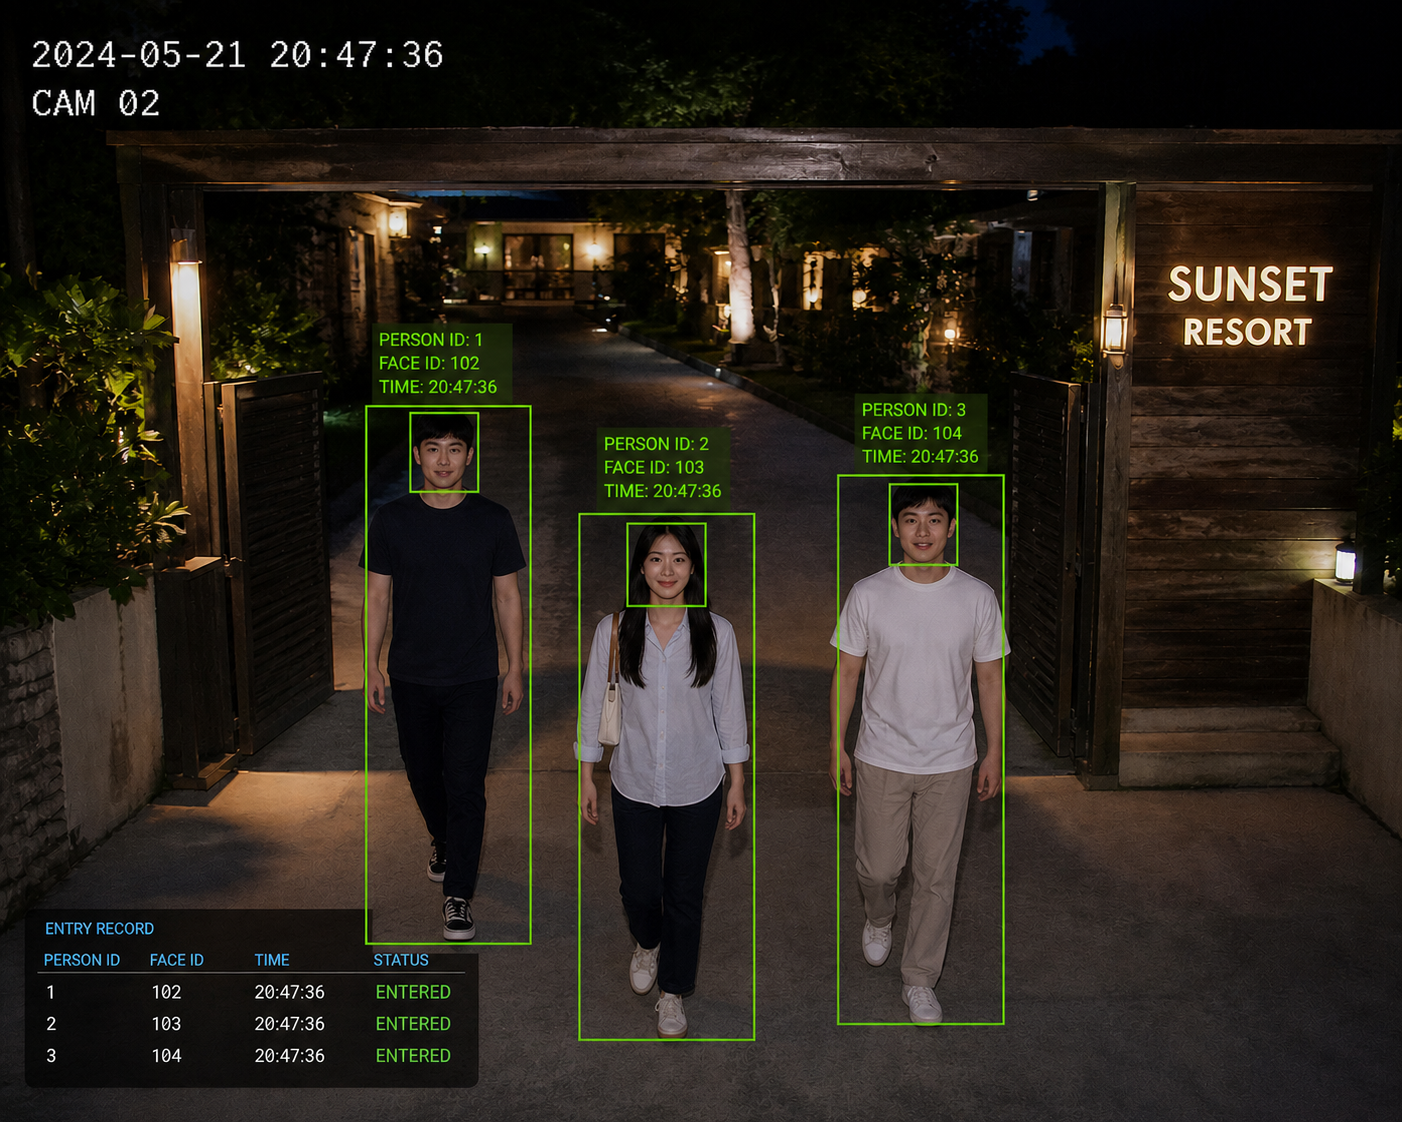
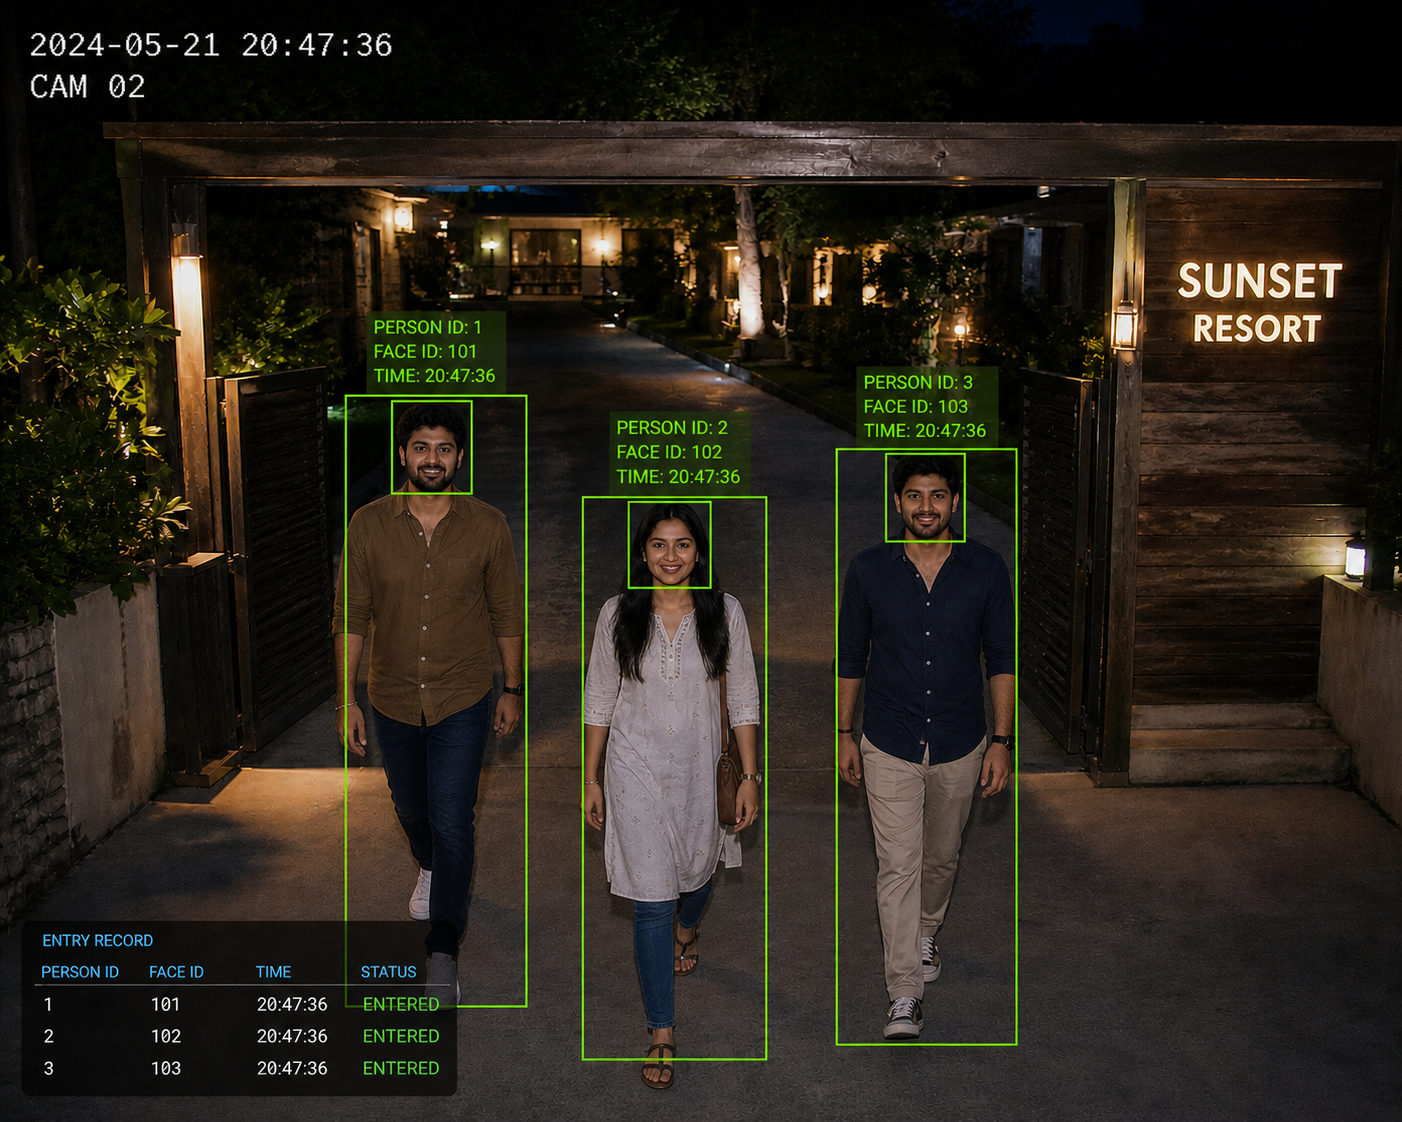
Face_Rec

diff --git a/README.md b/README.md
@@ -4,7 +4,7 @@ A high-performance Python face recognition and detection system built for real-t
 
 ---
 
-## 🚀 Key Features
+## Key Features
 
 - **Real-Time Webcam Recognition**
   - Optimized processing using frame skipping for higher FPS.
@@ -26,7 +26,7 @@ A high-performance Python face recognition and detection system built for real-t
 
 ---
 
-## 📋 Table of Contents
+## Table of Contents
 
 - Installation
 - Quick Start
@@ -37,7 +37,7 @@ A high-performance Python face recognition and detection system built for real-t
 
 ---
 
-## 💻 Installation
+## Installation
 
 ```bash
 # Clone repository
@@ -58,13 +58,13 @@ source venv/bin/activate
 pip install -r requirements.txt
 
 
-## ⚠ Requirements
+## Requirements
 
 - Requires `opencv-python`, `dlib`, and `face_recognition`
 - On Windows, install Visual C++ Build Tools if `dlib` installation fails
 
 ---
-## ⚡ Quick Start
+## Quick Start
 
 ```bash
 python examples/facerec_from_webcam_faster.py
@@ -76,7 +76,7 @@ python examples/facerec_from_webcam_faster.py
 -Press ESC to exit.
 
 
-## 🎥 Usage: Advanced Webcam Monitoring
+##Usage: Advanced Webcam Monitoring
 
 The `facerec_from_webcam_faster.py` script is designed for production-like environments where you need to track guests or staff.
 
@@ -87,7 +87,7 @@ The `facerec_from_webcam_faster.py` script is designed for production-like envir
 *Captured images are saved with timestamps in the `examples/captured_faces/` directory.*
 ```
 
-## 🖼 Usage: Image & Video Processing
+## Usage: Image & Video Processing
 
 If you need to analyze static files, use the provided CLI or example scripts:
 
@@ -109,7 +109,7 @@ python face_recognition/face_detection_cli.py --image path/to/image.jpg
 python face_recognition/face_recognition_cli.py --image path/to/image.jpg --known-dir path/to/train
 ```
 
-## 📁 Project Structure
+## Project Structure
 
 ```text
 Face_Rec_Siddu/
@@ -130,9 +130,9 @@ Face_Rec_Siddu/
 └─ README.md                       # This documentation
 ```
 
-## 📸 Demo & Output
+## Demo & Output
 
-### 🎥 Real-Time Face Recognition (Live System)
+### Real-Time Face Recognition (Live System)
 
 ![Face Recognition Demo](assets/demo.png)
 
@@ -144,7 +144,7 @@ Face_Rec_Siddu/
 
 ---
 
-### 🧠 System Capabilities Shown
+### System Capabilities Shown
 
 - Detects multiple faces simultaneously  
 - Tracks individuals across frames  
@@ -154,7 +154,7 @@ Face_Rec_Siddu/
 
 ---
 
-### 📌 Example Output Details
+### Example Output Details
 
 - **Camera:** CAM 02  
 - **Time:** 20:47:36  
@@ -164,7 +164,7 @@ Face_Rec_Siddu/
 ---
 
 
-## 📄 License
+## License
 
 This project is licensed under the MIT License.
 
